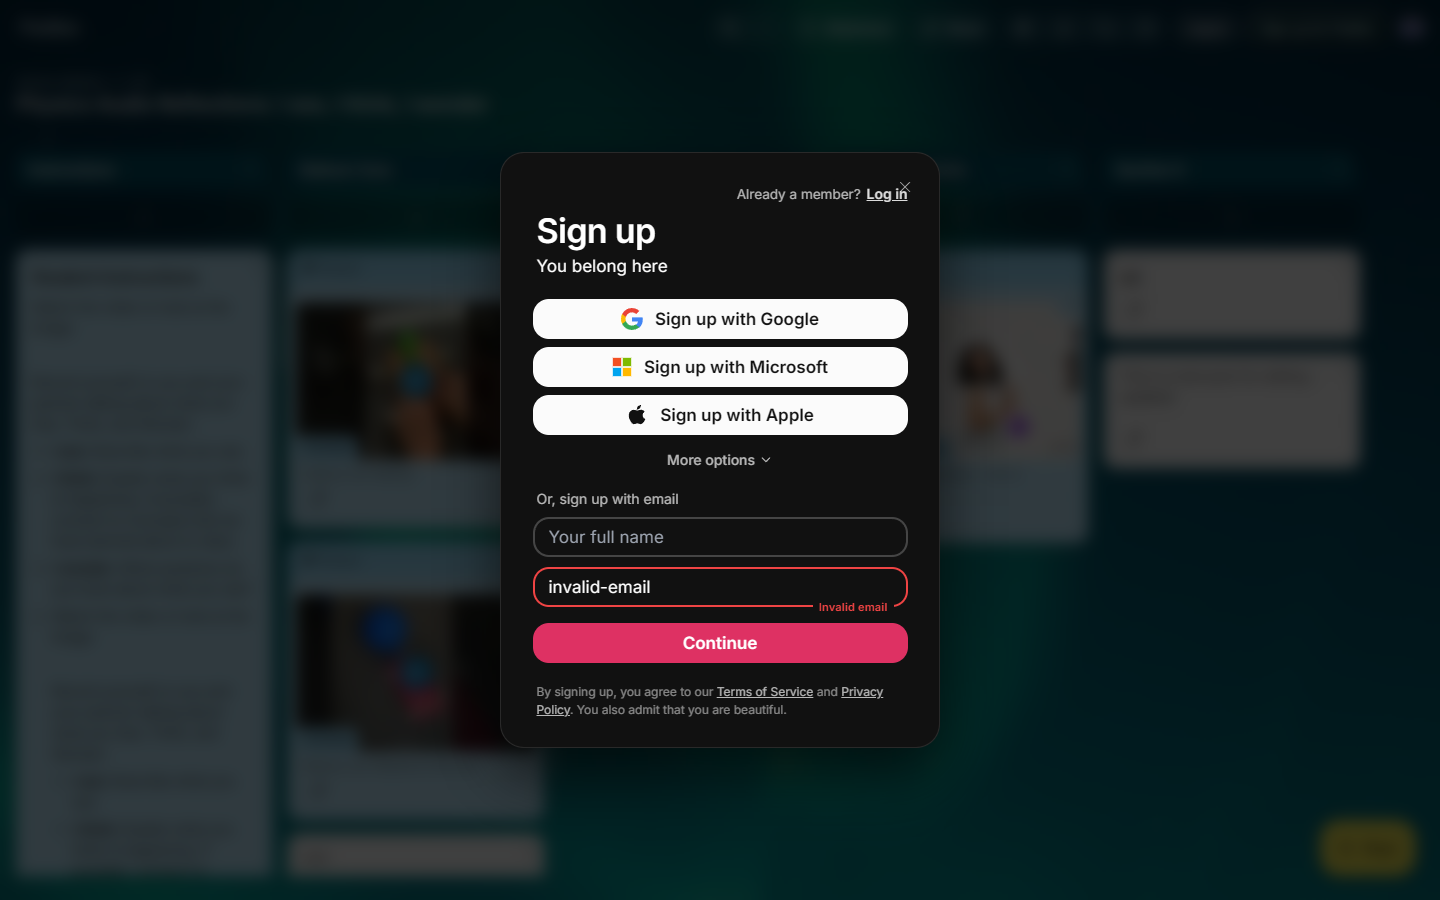
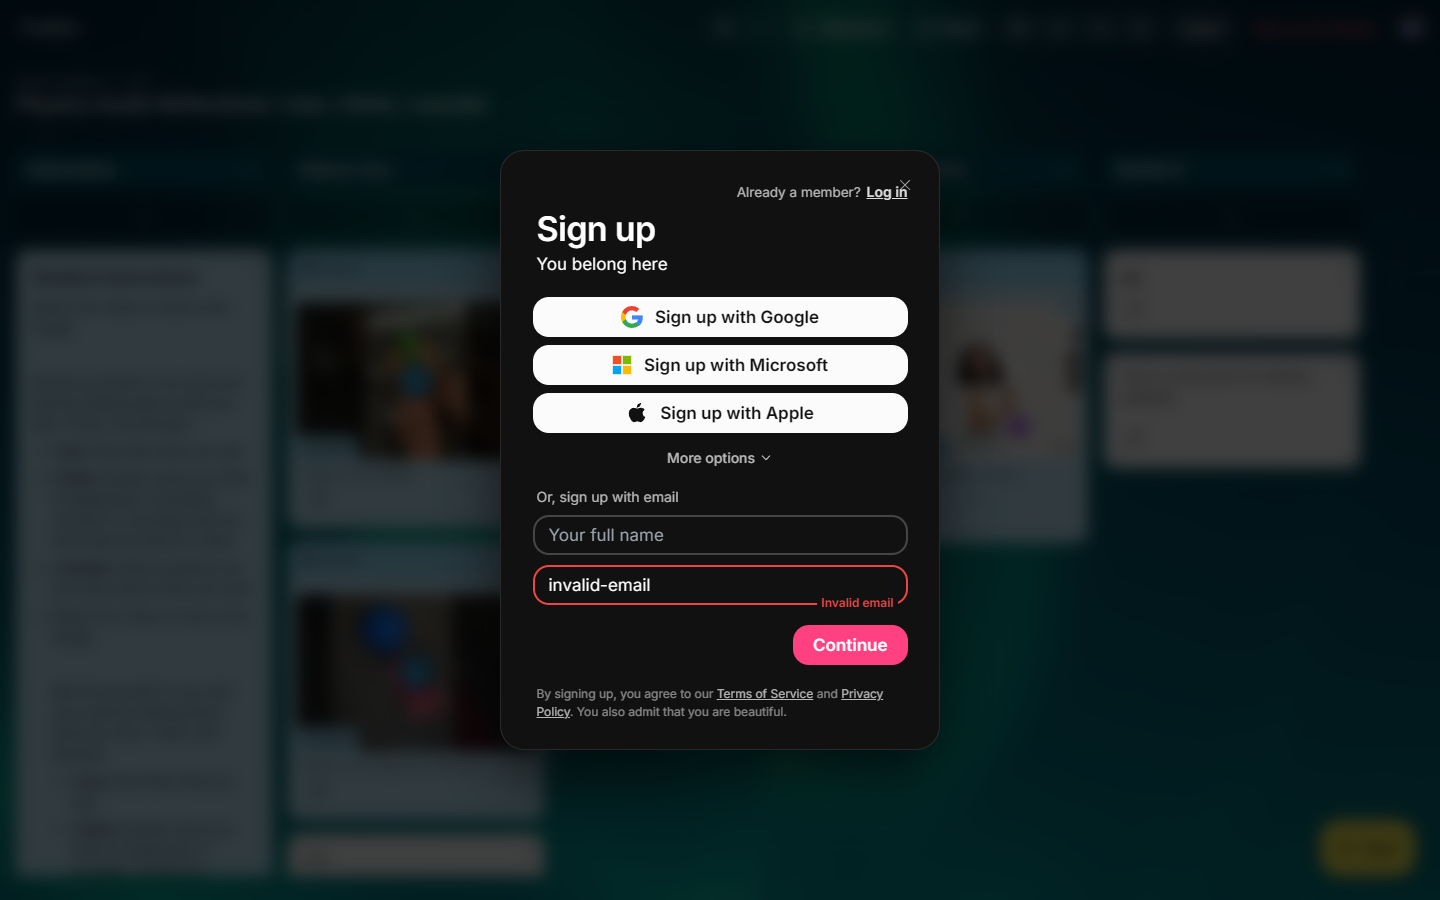
chore(auth): tune Continue button alignment and live Padlet parity metrics

diff --git a/styles.css b/styles.css
@@ -323,7 +323,7 @@ body.aurora-theme {
 
 .topbar-signup-btn {
   font-family: inherit;
-  font-size: 13px;
+  font-size: 14px;
   font-weight: 600;
   display: inline-flex;
   align-items: center;
@@ -332,9 +332,10 @@ body.aurora-theme {
   border-radius: 12px;
   background-color: rgb(1, 40, 50);
   backdrop-filter: blur(12px);
-  color: rgb(233, 248, 251);
+  color: rgb(255, 64, 129);
   text-decoration: none;
   cursor: pointer;
+  border: none;
   transition: background 0.15s ease;
 }
 
@@ -8286,17 +8287,17 @@ body.theme-corkboard {
 
 .padlet-input-floating-error {
   position: absolute;
-  right: 12px;
-  bottom: -9px;
+  right: 8px;
+  bottom: -8px;
   background: rgb(17, 17, 17);
   color: rgb(239, 68, 68);
-  font-size: 11px;
+  font-size: 12px;
   font-weight: 600;
-  padding: 0 6px;
-  line-height: 14px;
+  padding: 0 4px;
+  line-height: 16px;
   border-radius: 4px;
   pointer-events: none;
-  letter-spacing: 0.2px;
+  z-index: 2;
 }
 
 .padlet-auth-input {
@@ -8330,23 +8331,44 @@ body.theme-corkboard {
   color: #ffffff;
 }
 
-/* Continue Button: Padlet Hot Pink #de3163 */
+/* Continue Button Container: Aligns right on desktop */
+.padlet-auth-continue-container {
+  display: flex;
+  justify-content: flex-end;
+  width: 100%;
+  margin-top: 10px;
+}
+
+@media (max-width: 600px) {
+  .padlet-auth-continue-container {
+    justify-content: center;
+  }
+}
+
+/* Continue Button: Padlet Hot Pink rgb(255, 64, 129) */
 .padlet-auth-continue-btn {
   height: 40px;
   border-radius: 16px;
   border: none;
   font-size: 17px;
   font-weight: 600;
-  width: 100%;
+  width: auto;
+  min-width: 113px;
+  padding: 0 20px;
   display: flex;
   align-items: center;
   justify-content: center;
   font-family: inherit;
-  margin-top: 6px;
   transition: all 0.15s ease;
   cursor: pointer;
-  background: rgb(222, 49, 99);
+  background: rgb(255, 64, 129);
   color: #ffffff;
+}
+
+@media (max-width: 600px) {
+  .padlet-auth-continue-btn {
+    width: 100%;
+  }
 }
 
 .padlet-auth-continue-btn:disabled {
@@ -8356,7 +8378,7 @@ body.theme-corkboard {
 }
 
 .padlet-auth-continue-btn:not(:disabled):hover {
-  background: #cf2754;
+  background: rgb(240, 50, 115);
 }
 
 .padlet-auth-back-btn,

diff --git a/index.html b/index.html
@@ -2280,9 +2280,11 @@
           </div>
 
           <!-- Continue / Action Button -->
-          <button type="button" id="authModalSubmitBtn" class="padlet-auth-continue-btn" disabled>
-            Continue
-          </button>
+          <div class="padlet-auth-continue-container">
+            <button type="button" id="authModalSubmitBtn" class="padlet-auth-continue-btn" disabled>
+              Continue
+            </button>
+          </div>
 
           <!-- Magic Link Alternative -->
           <button type="button" id="authModalMagicLinkBtn" class="padlet-auth-magiclink-btn" style="display: none;">
@@ -2392,14 +2394,11 @@
           </div>
 
           <!-- Continue / Action Button -->
-          <button type="button" id="authStandaloneSubmitBtn" class="padlet-auth-continue-btn" disabled>
-            Continue
-          </button>
-
-          <!-- Return to Board Button -->
-          <button type="button" id="authStandaloneBackBtn" class="padlet-auth-back-btn">
-            Back to board
-          </button>
+          <div class="padlet-auth-continue-container">
+            <button type="button" id="authStandaloneSubmitBtn" class="padlet-auth-continue-btn" disabled>
+              Continue
+            </button>
+          </div>
         </div>
 
         <!-- Signup Terms Humor Notice -->
